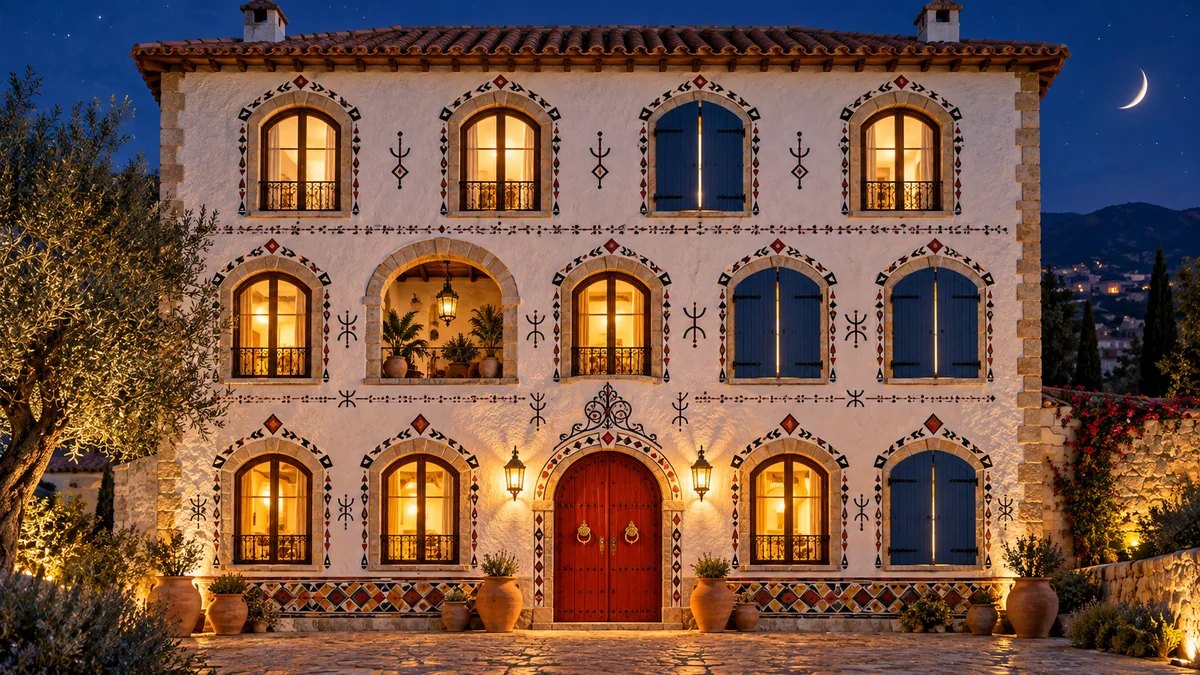
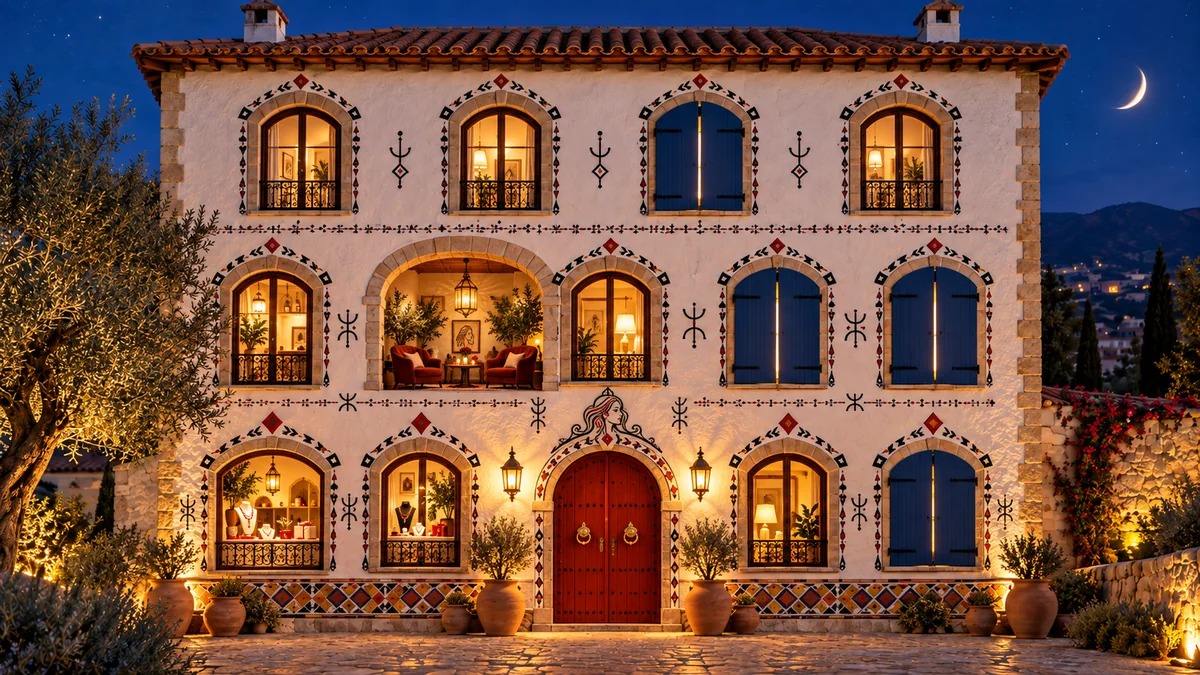
Nouvelle façade, Maison organisée par étages, transition adoucie
- Nouvelle photographie de Lamia : bijoux en vitrine au rez-de-chaussée, boudoir
  aux fauteuils rouges au premier, visage de Lamia au-dessus de la porte.
- Pièces par étage : rez-de-chaussée (Écrin, Boutique, Dressing, Coiffeuse),
  premier (Salon, Boudoir des Rencontres, Bibliothèque, Cabinet des Confidences
  derrière ses volets), deuxième (Grenier, Galerie, Atelier, Patio). Index des
  pièces groupé par étage.
- Salle de bain retirée ; le Dressing accueille vêtements, accessoires et
  cosmétiques (migration : type Cosmétique rattaché au Dressing).
- « Salon du Speed Dating » devient « Le Boudoir des Rencontres » (adresse inchangée).
- Transition : le coucher de soleil descend en paliers doux jusqu'au bleu nuit de
  la photo, sans ligne d'horizon ; bords de la photo fondus dans le ciel.
- Correction d'un débordement horizontal sur mobile.

Claude-Session: https://claude.ai/code/session_014hYjydiWEDTx792WSyTSSe

diff --git a/src/maison.css b/src/maison.css
@@ -524,3 +524,49 @@ mark.todo { background: #fff3c4; color: var(--encre); padding: 0 4px; font-weigh
 }
 .hall-cue span { white-space: nowrap; }
 @media (max-width: 900px) { .hall-hero { padding-bottom: 200px; } .hall-cue { font-size: 18px; } }
+/* ================================================================ Transition douce : soleil couchant → nuit de la façade */
+:root { --nuit-photo: #0d3170; --nuit-profonde: #0a2456; }
+.hall-hero, .hall-hero[class] {
+  padding-bottom: clamp(220px, 22vw, 320px);
+  background:
+    radial-gradient(ellipse 16% 7% at 50% 80%, rgba(255,238,185,.95), rgba(255,180,95,.75) 45%, rgba(240,110,60,0) 85%),
+    radial-gradient(ellipse 75% 20% at 50% 80%, rgba(255,128,64,.42), rgba(190,40,60,.22) 55%, transparent 80%),
+    radial-gradient(ellipse 55% 40% at 72% 24%, rgba(255,244,214,.9), rgba(255,226,160,.3) 45%, transparent 70%),
+    linear-gradient(180deg,
+      #fdefcd 0%, #f9dc9c 20%, #f4c172 36%, #ee9a52 50%, #e3713f 60%, #c94a3e 68%,
+      #9c3346 75%, #6e2a52 81%, #47295f 86%, #2a2e6a 91%, #16306c 96%, var(--nuit-photo) 100%);
+}
+.hall-hero::before { top: 80%; height: 14%;
+  background: radial-gradient(ellipse 18% 100% at 50% 0%, rgba(255,214,140,.45), transparent 80%);
+  -webkit-mask-image: linear-gradient(180deg, #000, transparent); mask-image: linear-gradient(180deg, #000, transparent); }
+.hall-cue { top: calc(80% - 96px); }
+.plan-section, .plan-section[class] {
+  border: 0; padding-top: clamp(8px, 2vw, 24px);
+  background: linear-gradient(180deg, var(--nuit-photo) 0%, var(--nuit-profonde) 55%, #0b1d43 100%);
+}
+/* La photo se fond dans le ciel : bords adoucis, sans cadre */
+.facade { border-radius: 0; box-shadow: none; max-width: 1180px;
+  -webkit-mask-image: linear-gradient(180deg, transparent 0, #000 9%, #000 92%, transparent 100%), linear-gradient(90deg, transparent 0, #000 7%, #000 93%, transparent 100%);
+  -webkit-mask-composite: source-in; mask-image: linear-gradient(180deg, transparent 0, #000 9%, #000 92%, transparent 100%), linear-gradient(90deg, transparent 0, #000 7%, #000 93%, transparent 100%);
+  mask-composite: intersect; }
+.f-tip { z-index: 5; }
+
+/* Les étages */
+.floors { max-width: 1180px; margin: 32px auto 0; display: grid; gap: 28px; }
+.floor h3 { display: flex; flex-wrap: wrap; align-items: baseline; gap: 4px 14px; color: #fff3d6; font-size: 26px; margin: 0 0 4px; padding-bottom: 8px; border-bottom: 1px solid rgba(255,214,140,.35); }
+.floor h3 span { font-family: var(--sans); font-size: 15px; font-weight: 500; color: #e9c98a; }
+.floor .room-index { margin-top: 0; }
+.plan-section .room-index span:not(.pip) { color: #c5cde0; }
+.plan-section .pip { box-shadow: 0 0 0 2px var(--nuit-profonde), 0 0 0 3px var(--accent); }
+@media (max-width: 900px) {
+  .hall-hero, .hall-hero[class] { padding-bottom: 230px;
+    background:
+      radial-gradient(ellipse 34% 4% at 50% 86%, rgba(255,238,185,.95), rgba(255,180,95,.75) 45%, rgba(240,110,60,0) 85%),
+      linear-gradient(180deg, #fdefcd 0%, #f9dc9c 18%, #f4c172 34%, #ee9a52 50%, #e3713f 62%, #c94a3e 71%, #9c3346 78%, #6e2a52 84%, #47295f 89%, #2a2e6a 94%, var(--nuit-photo) 100%); }
+  .hall-hero::before { top: 86%; height: 9%; }
+  .hall-cue { top: calc(86% - 96px); }
+  .facade { -webkit-mask-image: linear-gradient(180deg, transparent 0, #000 8%, #000 92%, transparent 100%); mask-image: linear-gradient(180deg, transparent 0, #000 8%, #000 92%, transparent 100%); }
+}
+.floors, .floor, .floor .room-index { min-width: 0; }
+.floor .room-index { grid-template-columns: repeat(auto-fill, minmax(min(240px, 100%), 1fr)); }
+.room-index, .next-rooms ul { grid-template-columns: repeat(auto-fill, minmax(min(240px, 100%), 1fr)); }
